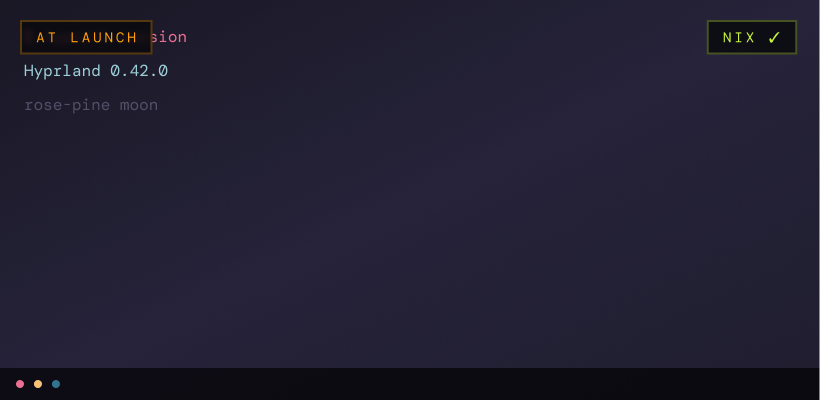
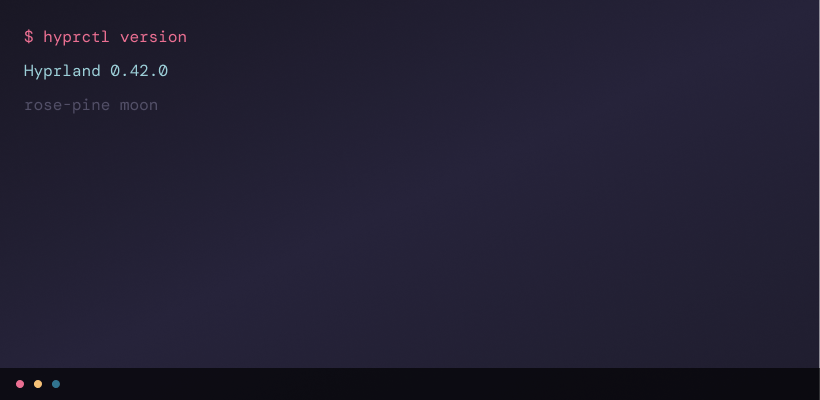
finish preview section

Changed region(s): [[0.0305, 0.03, 0.2134, 0.15], [0.8537, 0.03, 0.9756, 0.15]]

diff --git a/src/pages/Home/Preview/RiceCard.tsx b/src/pages/Home/Preview/RiceCard.tsx
@@ -1,4 +1,5 @@
 import { RiceDto } from "@/types/dto";
+import { ComponentChildren } from "preact";
 
 export default function RiceCard({
     title,
@@ -9,23 +10,90 @@ export default function RiceCard({
     stars,
 }: RiceDto) {
     return (
-        <>
-            <img src={thumbnailUrl} alt="thumbnail" />
-            <div>
-                <p>{title}</p>
-                {price !== undefined ? <p>${price.toFixed(2)}</p> : <p>Free</p>}
+        <div className="bg-obsidian border-slate font-dm-mono relative border">
+            <img className="h-full" src={thumbnailUrl} alt="thumbnail" />
+            <div className="flex flex-col gap-2 px-4 py-3.5">
+                <div className="flex items-center justify-between">
+                    <p className="font-syne font-bold -tracking-[0.0125em]">
+                        {title}
+                    </p>
+                    {price !== undefined ? (
+                        <p className="text-phosphor">${price.toFixed(2)}</p>
+                    ) : (
+                        <p className="text-parchment/44">Free</p>
+                    )}
+                </div>
+                <ul className="text-phosphor text-3xs flex gap-1 tracking-[0.1875em] uppercase">
+                    {tags.map((tag) => (
+                        <li className="border-phosphor/10 border px-2 py-0.5">
+                            {tag}
+                        </li>
+                    ))}
+                </ul>
+                <div className="h-0.5 w-full bg-white/7" />
+                <div className="flex items-center gap-2">
+                    <p className="text-2xs text-slate mr-auto tracking-[0.05em]">
+                        Curated with permission
+                    </p>
+                    <TextWithIcon text={downloads} icon={<ArrowIcon />} />
+                    <TextWithIcon text={stars} icon={<StarIcon />} />
+                </div>
             </div>
-            <ul>
-                {tags.map((tag) => (
-                    <li>{tag}</li>
-                ))}
-            </ul>
-            <div className="bg-muted h-0.5 w-full" />
-            <div>
-                <p>Curated with permission</p>
-                <p>{downloads}</p>
-                <p>{stars}</p>
-            </div>
-        </>
+            {/* TODO: use component for this */}
+            <p className="text-3xs text-amber-alert bg-dark-text/80 border-amber-alert/30 absolute top-2 left-2 border px-2 py-1 tracking-[0.1875em] uppercase backdrop-blur-xs">
+                At launch
+            </p>
+            <p className="text-3xs text-phosphor bg-dark-text/80 border-phosphor/30 absolute top-2 right-2 border px-2 py-1 tracking-[0.1875em] uppercase backdrop-blur-xs">
+                Nix ✓
+            </p>
+        </div>
     );
 }
+
+// TODO: pass class list to icon
+const TextWithIcon = ({
+    icon,
+    text,
+}: {
+    icon: ComponentChildren;
+    text: number;
+}) => (
+    <p className="text-muted flex items-center gap-0.5 text-xs">
+        {icon}
+        {text}
+    </p>
+);
+
+const ArrowIcon = () => (
+    <svg
+        xmlns="http://www.w3.org/2000/svg"
+        fill="none"
+        viewBox="0 0 24 24"
+        strokeWidth={1.5}
+        stroke="currentColor"
+        className="size-4"
+    >
+        <path
+            strokeLinecap="round"
+            strokeLinejoin="round"
+            d="M4.5 10.5 12 3m0 0 7.5 7.5M12 3v18"
+        />
+    </svg>
+);
+
+const StarIcon = () => (
+    <svg
+        xmlns="http://www.w3.org/2000/svg"
+        fill="none"
+        viewBox="0 0 24 24"
+        strokeWidth={1.5}
+        stroke="currentColor"
+        className="size-4"
+    >
+        <path
+            strokeLinecap="round"
+            strokeLinejoin="round"
+            d="M11.48 3.499a.562.562 0 0 1 1.04 0l2.125 5.111a.563.563 0 0 0 .475.345l5.518.442c.499.04.701.663.321.988l-4.204 3.602a.563.563 0 0 0-.182.557l1.285 5.385a.562.562 0 0 1-.84.61l-4.725-2.885a.562.562 0 0 0-.586 0L6.982 20.54a.562.562 0 0 1-.84-.61l1.285-5.386a.562.562 0 0 0-.182-.557l-4.204-3.602a.562.562 0 0 1 .321-.988l5.518-.442a.563.563 0 0 0 .475-.345L11.48 3.5Z"
+        />
+    </svg>
+);

diff --git a/src/pages/Home/Preview/index.tsx b/src/pages/Home/Preview/index.tsx
@@ -29,6 +29,16 @@ export default function PreviewSection() {
                         <RiceCard {...rice} />
                     </li>
                 ))}
+                <li>
+                    <div className="border-slate flex h-full flex-col items-center justify-center gap-4 border-2 border-dashed">
+                        <button className="bg-phosphor p-3.5 text-black">
+                            <PlusIcon />
+                        </button>
+                        <p className="font-syne text-xl font-bold">
+                            Add Your Rice
+                        </p>
+                    </div>
+                </li>
             </ul>
 
             {/* cta */}
@@ -46,3 +56,20 @@ export default function PreviewSection() {
         </section>
     );
 }
+
+const PlusIcon = () => (
+    <svg
+        xmlns="http://www.w3.org/2000/svg"
+        fill="none"
+        viewBox="0 0 24 24"
+        strokeWidth={1.5}
+        stroke="currentColor"
+        className="size-12.5"
+    >
+        <path
+            strokeLinecap="round"
+            strokeLinejoin="round"
+            d="M12 4.5v15m7.5-7.5h-15"
+        />
+    </svg>
+);

diff --git a/src/style.css b/src/style.css
@@ -11,6 +11,7 @@
     /* CUSTOM COLOR PALETTES */
     --color-*: initial;
     --color-white: #ffffff;
+    --color-black: #000000;
 
     /* Dark */
     --color-void: #0a0a0c;
